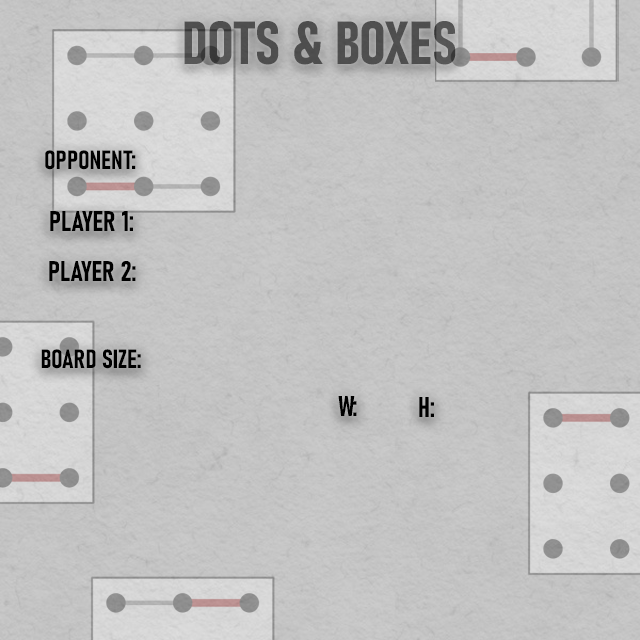
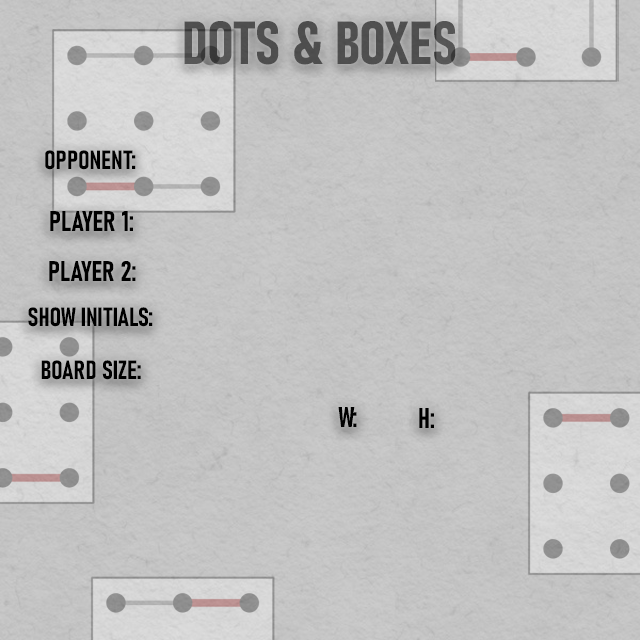
Added checkbox

Changed region(s): [[0.0312, 0.4688, 0.25, 0.625], [0.5312, 0.5938, 0.5625, 0.6875], [0.6562, 0.625, 0.6875, 0.6875]]

diff --git a/src/graphics/PlayMenu.java b/src/graphics/PlayMenu.java
@@ -1,8 +1,14 @@
 package graphics;
 
 import javax.swing.*;
+import javax.swing.text.NumberFormatter;
+
 import java.awt.event.ActionEvent;
 import java.awt.event.ActionListener;
+import java.awt.event.ItemEvent;
+import java.awt.event.ItemListener;
+import java.text.DecimalFormat;
+import java.text.NumberFormat;
 
 public class PlayMenu implements Menu{
 	private static Menu instance=null;
@@ -11,10 +17,12 @@ public class PlayMenu implements Menu{
 	private JButton back,play,human,bot,size1,size2,size3,custom;
 	private JTextField player1name, player2name;
 	private JFormattedTextField boardW, boardH;
+	private JCheckBox initials;
 	
 	private MenuBasic base;
 	
 	private boolean botActive=false;
+	private boolean showInitials=false;
 	private int size=1;
 
 
@@ -43,6 +51,7 @@ public class PlayMenu implements Menu{
 		this.playMenuPanel.add(player2name);
 		this.playMenuPanel.add(boardW);
 		this.playMenuPanel.add(boardH);
+		this.playMenuPanel.add(initials);
 	}
 	@Override
 	public JPanel getPanel() {
@@ -86,6 +95,12 @@ public class PlayMenu implements Menu{
 		
 		player1name.setLocation(178,202);
 		player2name.setLocation(178,255);
+		
+		initials= new JCheckBox();
+		initials.setSize(30, 30);
+		initials.setLocation(178,302);
+		initials.setOpaque(false);
+		initials.addItemListener(new ItemListener() {public void itemStateChanged(ItemEvent e) {showInitials=!showInitials;}});
 	}
 
 	private void setUpBoard(){
@@ -94,21 +109,24 @@ public class PlayMenu implements Menu{
 		size3=Button(Paths.BUTTON_SIZE3);
 		custom=Button(Paths.BUTTON_CUSTOM);
 		
-		size1.setLocation(164,329);
-		size2.setLocation(323,329);
-		size3.setLocation(475,329);
-		custom.setLocation(164,379);
+		size1.setLocation(164,339);
+		size2.setLocation(323,339);
+		size3.setLocation(475,339);
+		custom.setLocation(164,389);
 		
-		boardW= new JFormattedTextField("5");
-		boardH= new JFormattedTextField("5");
+		boardW= new JFormattedTextField(new NumberFormatter(new DecimalFormat("##")));
+		boardH= new JFormattedTextField(new NumberFormatter(new DecimalFormat("##")));
+		boardW.setValue(5);
+		boardH.setValue(5);
 		
-		boardW.setLocation(365, 390);
+		boardW.setLocation(365, 400);
 		boardW.setSize(40, 40);
 		boardW.setEditable(false);
 		
-		boardH.setLocation(440, 390);
+		boardH.setLocation(440, 400);
 		boardH.setSize(40, 40);
 		boardH.setEditable(false);
+		
 		
 		
 		size1.addActionListener(new ActionListener(){ public void actionPerformed(ActionEvent e){setActiveSize(1);}});

diff --git a/src/graphics/MainMenu.java b/src/graphics/MainMenu.java
@@ -19,7 +19,7 @@ public class MainMenu implements Menu{
 		this.MainMenuPanel=new Background(Paths.BACKGROUND_MAIN);
 		this.MainMenuPanel.setLayout(null);
 		setUpImageButtons();
-		System.out.println("Done");
+//		System.out.println("Done");
 	}
 	
 	public void setUpActionListeners(MenuBasic base,Menu playM, Menu rulesM, Menu creditsM) {
